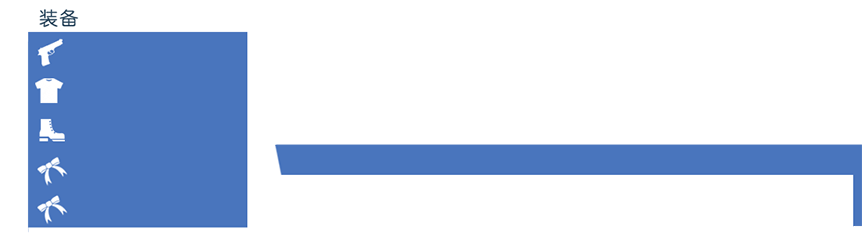
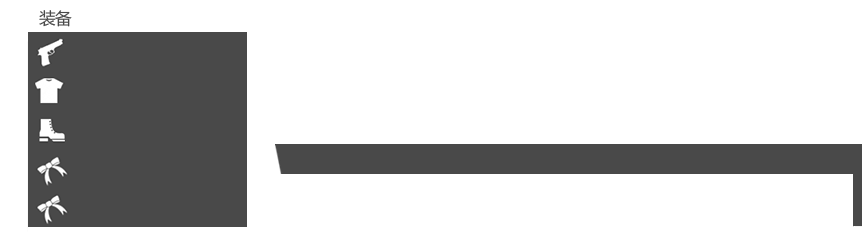
new UI design

diff --git a/src/com/rpsg/rpg/view/menu/MenuBaseView.java b/src/com/rpsg/rpg/view/menu/MenuBaseView.java
@@ -49,13 +49,18 @@ public class MenuBaseView extends View{
 		infolevel.setColor(1,1,1,0);
 		infolevel.addAction((Actions.delay(0.05f, Actions.parallel(Actions.fadeIn(0.15f),Actions.moveTo(480.5f,388.5f,0.15f)))));
 		stage.addActor(infolevel);
-		
-		Image fgshadow=Res.get(Setting.GAME_RES_IMAGE_FG+HeroController.getHeadHero().fgname+"/shadow.png");
-		fgshadow.setPosition(GameUtil.screen_width, 0);
-		fgshadow.setColor(1,1,1,0);
-		fgshadow.setScale(0.32f);
-		fgshadow.addAction(Actions.parallel(Actions.fadeIn(0.3f),Actions.moveTo(670, 0,0.1f)));
+		Image fgshadow=Res.get(Setting.GAME_RES_IMAGE_FG+HeroController.getHeadHero().fgname+"/Normal.png");
+		fgshadow.setPosition(900, 0);
+		fgshadow.setColor(0,0,0,0f);
+		fgshadow.scaleX(-0.32f).scaleY(0.32f);
+		fgshadow.addAction(Actions.parallel(Actions.moveTo(1050, 0,0.15f),Actions.color(new Color(0,0,0,.5f),0.5f)));
 		stage.addActor(fgshadow);
+		
+		Image map_bg=Res.get(Setting.GAME_RES_IMAGE_MENU_GLOBAL+"map_bg.png");
+		map_bg.setPosition(150,30);
+		map_bg.setColor(1,1,1,0);
+		map_bg.addAction(Actions.fadeIn(0.3f));
+		stage.addActor(map_bg);
 		
 		Image fg=Res.get(Setting.GAME_RES_IMAGE_FG+HeroController.getHeadHero().fgname+"/Normal.png");
 		fg.setPosition(GameUtil.screen_width, 0);
@@ -71,11 +76,7 @@ public class MenuBaseView extends View{
 		walk_bg.addAction(Actions.parallel(Actions.fadeIn(0.2f),Actions.moveTo(155,360,0.2f)));
 		stage.addActor(walk_bg);
 		
-		Image map_bg=Res.get(Setting.GAME_RES_IMAGE_MENU_GLOBAL+"map_bg.png");
-		map_bg.setPosition(150,30);
-		map_bg.setColor(1,1,1,0);
-		map_bg.addAction(Actions.fadeIn(0.3f));
-		stage.addActor(map_bg);
+	
 		int offset=0;
 		for(Hero h:HeroController.heros){
 			heros.add(HeroImage.generateImage(h.images, (int)(170+284/2-(h.getWidth())*HeroController.heros.size()+(offset+=60)), 410));
@@ -87,7 +88,7 @@ public class MenuBaseView extends View{
 		
 		try{
 			map=Res.get(Setting.GAME_RES_IMAGE_MENU_MAP+GameViews.gameview.map.getProperties().get("minimap")+".png");
-			map.setPosition(222, 46);
+			map.setPosition(218, 46);
 			map.setColor(1,1,1,0);
 			map.setSize(400, 235);
 			map.addAction(Actions.fadeIn(0.3f));
@@ -153,10 +154,10 @@ public class MenuBaseView extends View{
 		FontUtil.draw(batch, HeroController.getHeadHero().prop.get("level")+"", 40, blue, 506-FontUtil.getTextWidth(HeroController.getHeadHero().prop.get("level")+"", 40, -10)/2, 454, 1000,-10,0);
 		FontUtil.draw(batch, GameViews.global.gold+" G", 18, blue, 488+91/2-FontUtil.getTextWidth(GameViews.global.gold+" G", 18, -8), 379, 1000,-8,0);
 		FontUtil.draw(batch, "状态正常", 17, Color.WHITE, 149+285/2-FontUtil.getTextWidth("状态正常", 17, 2)/2, 385, 1000,2,0);
-		FontUtil.draw(batch, currTime, 17, blue, 558+144/2-FontUtil.getTextWidth(currTime, 17, -8)/2, 380, 1000,-8,0);
-		FontUtil.draw(batch, currDay, 16, Color.GRAY, 714, 379, 1000,-7,0);
+		FontUtil.draw(batch, currTime, 17, blue, 558+144/2-FontUtil.getTextWidth(currTime, 17, -8)/2, 378, 1000,-8,0);
+		FontUtil.draw(batch, currDay, 16, Color.GRAY, 714, 378, 1000,-7,0);
 		FontUtil.draw(batch, "LV", 14, blue, 511, 413, 1000,-7,0);
-		FontUtil.draw(batch, (String)GameViews.gameview.map.getProperties().get("name")+" ["+HeroController.getHeadHero().mapx+","+HeroController.getHeadHero().mapy+"]", 20, Color.WHITE, 210, 317, 1000,0,0);
+		FontUtil.draw(batch, (String)GameViews.gameview.map.getProperties().get("name")+" ["+HeroController.getHeadHero().mapx+","+HeroController.getHeadHero().mapy+"]", 20, Color.WHITE, 175, 317, 1000,0,0);
 		time.draw(batch);
 		for(HeroImage h:heros)
 			h.draw(batch, step==3?1:step);

diff --git a/src/com/rpsg/rpg/view/menu/ItemView.java b/src/com/rpsg/rpg/view/menu/ItemView.java
@@ -120,7 +120,7 @@ public class ItemView extends DefaultIView{
 		topbar=new Table();
 		topbar.setBackground(Res.getDrawable(Setting.GAME_RES_IMAGE_MENU_ITEM+"topbar.png"));
 		topbar.setSize(818, 42);
-		topbar.setPosition(168, 455);
+		topbar.setPosition(160, 455);
 		int tmpI=0,offsetX=135;
 		topbar.add(new TopBar("medicine", tmpI++*offsetX));
 		topbar.add(new TopBar("material", tmpI++*offsetX));
@@ -335,7 +335,7 @@ public class ItemView extends DefaultIView{
 	Image scuse,scfor;
 	com.rpsg.rpg.system.ui.List<ListItem> sellist,herolist;
 	Runnable can,can2,can3;
-	Color blue=new Color(80f/255f,111f/255f,187f/255f,1);
+	Color blue=Color.DARK_GRAY;
 	Color green=new Color(219f/255f,255f/255f,219f/255f,1);
 	Color cblue=new Color(219f/255f,238f/255f,255f/255f,1);
 	boolean drawp=false;
@@ -345,7 +345,7 @@ public class ItemView extends DefaultIView{
 		SpriteBatch sb=(SpriteBatch) stage.getBatch();
 		sb.begin();
 		FontUtil.draw(sb, item.name, 22, Color.WHITE, 455, 134, 1000);
-		FontUtil.draw(sb, item.illustration, 18, Color.BLACK, 459, 100, 490);
+		FontUtil.draw(sb, item.illustration, 18, Color.DARK_GRAY, 459, 100, 490);
 		scuse.draw(sb);
 		if(sellist.isVisible()) sellist.draw(sb, 1);
 		scfor.draw(sb);
@@ -360,8 +360,8 @@ public class ItemView extends DefaultIView{
 				render.setColor(cblue);
 				render.rect(575, 105, (float)((float)h.prop.get("mp")/(float)h.prop.get("maxmp"))*176,20);
 				render.end();
-				FontUtil.draw(sb, h.prop.get("hp")+"/"+h.prop.get("maxhp"), 20, blue, 565+176/2-FontUtil.getTextWidth(h.prop.get("hp")+"/"+h.prop.get("maxhp"), 20,-7)/2, 161, 400,-7,0);
-				FontUtil.draw(sb, h.prop.get("mp")+"/"+h.prop.get("maxmp"), 20, blue, 565+176/2-FontUtil.getTextWidth(h.prop.get("mp")+"/"+h.prop.get("maxmp"), 20,-7)/2, 124, 400,-7,0);
+				FontUtil.draw(sb, h.prop.get("hp")+"/"+h.prop.get("maxhp"), 16, blue, 572+176/2-FontUtil.getTextWidth(h.prop.get("hp")+"/"+h.prop.get("maxhp"), 20,-7)/2, 158, 400,-5,0);
+				FontUtil.draw(sb, h.prop.get("mp")+"/"+h.prop.get("maxmp"), 16, blue, 572+176/2-FontUtil.getTextWidth(h.prop.get("mp")+"/"+h.prop.get("maxmp"), 20,-7)/2, 121, 400,-5,0);
 				FontUtil.draw(sb, "正常", 18, blue, 563+176/2-FontUtil.getTextWidth("正常", 18)/2, 196, 400);
 				FontUtil.draw(sb, h.toString(), 18, Color.WHITE, 515, 227, 200);
 				if(drawp){

diff --git a/src/com/rpsg/rpg/view/menu/SpellCardView.java b/src/com/rpsg/rpg/view/menu/SpellCardView.java
@@ -261,10 +261,10 @@ public class SpellCardView extends View{
 				render.setColor(cblue);
 				render.rect(578, 224, (float)((float)h.prop.get("mp")/(float)h.prop.get("maxmp"))*189,22);
 				render.end();
-				FontUtil.draw(sb, h.prop.get("hp")+"/"+h.prop.get("maxhp"), 20, blue, 560+190/2-FontUtil.getTextWidth(h.prop.get("hp")+"/"+h.prop.get("maxhp"), 20,-7)/2, 278, 400,-7,0);
-				FontUtil.draw(sb, h.prop.get("mp")+"/"+h.prop.get("maxmp"), 20, blue, 560+190/2-FontUtil.getTextWidth(h.prop.get("mp")+"/"+h.prop.get("maxmp"), 20,-7)/2, 244, 400,-7,0);
-				FontUtil.draw(sb, "正常", 18, blue, 560+190/2-FontUtil.getTextWidth("正常", 20)/2, 208, 400);
-				FontUtil.draw(sb, "目标："+h, 18, Color.WHITE, 495, 310, 200);
+				FontUtil.draw(sb, h.prop.get("hp")+"/"+h.prop.get("maxhp"), 20, Color.DARK_GRAY, 570+190/2-FontUtil.getTextWidth(h.prop.get("hp")+"/"+h.prop.get("maxhp"), 20,-7)/2, 277, 400,-7,0);
+				FontUtil.draw(sb, h.prop.get("mp")+"/"+h.prop.get("maxmp"), 20, Color.DARK_GRAY, 570+190/2-FontUtil.getTextWidth(h.prop.get("mp")+"/"+h.prop.get("maxmp"), 20,-7)/2, 243, 400,-7,0);
+				FontUtil.draw(sb, "正常", 18, Color.DARK_GRAY, 570+190/2-FontUtil.getTextWidth("正常", 20)/2, 208, 400);
+				FontUtil.draw(sb, "目标："+h, 18, Color.WHITE, 498, 310, 200);
 				if(drawp){
 					add.draw(sb,Gdx.graphics.getDeltaTime());
 					drawp=!add.isComplete();
@@ -277,8 +277,8 @@ public class SpellCardView extends View{
 			render.setColor(cblue);
 			render.rect(578, 116, (float)((float)hero.prop.get("mp")/(float)hero.prop.get("maxmp"))*189,22);
 			render.end();
-			FontUtil.draw(sb, "技能使用者："+hero, 18, Color.WHITE, 495, 170, 200);
-			FontUtil.draw(sb, hero.prop.get("mp")+"/"+  hero.prop.get("maxmp"), 20, blue, 560+190/2-FontUtil.getTextWidth(hero.prop.get("mp")+"/"+  hero.prop.get("maxmp"), 20,-7)/2, 136, 400,-7,0);
+			FontUtil.draw(sb, "技能使用者："+hero, 18, Color.WHITE, 498, 170, 200);
+			FontUtil.draw(sb, hero.prop.get("mp")+"/"+  hero.prop.get("maxmp"), 20, Color.DARK_GRAY, 570+190/2-FontUtil.getTextWidth(hero.prop.get("mp")+"/"+  hero.prop.get("maxmp"), 20,-7)/2, 135, 400,-7,0);
 			sb.draw(hero.images[1].getRegion(),820,102);
 		}
 		

diff --git a/src/com/rpsg/rpg/system/ui/List.java b/src/com/rpsg/rpg/system/ui/List.java
@@ -202,20 +202,20 @@ public class List<T> extends Widget implements Cullable {
 					selectedDrawable.draw(batch, x+20, y + itemY - itemHeight, width-10, itemHeight);
 					font.setColor(fontColorSelected.r, fontColorSelected.g, fontColorSelected.b, fontColorSelected.a * parentAlpha);
 				}
-				FontUtil.draw(((SpriteBatch)batch), item.toString(), 20,selected?style.fontColorSelected:Color.WHITE, (int)(x + textOffsetX + 20), (int)(y + itemY - textOffsetY)+1-padTop, 500);
+				FontUtil.draw(((SpriteBatch)batch), item.toString(), 20,selected?style.fontColorSelected:Color.WHITE, (int)(x + textOffsetX + 20), (int)(y + itemY - textOffsetY)-padTop, 500);
 				int offset=0;
 				if(item instanceof Equipment){
 					if(!((Equipment)item).throwable){
-						Res.getDrawable(Setting.GAME_RES_IMAGE_MENU_EQUIP+"throwable.png").draw(batch, x+width-61+offset, y+itemY - itemHeight+6+padTop, 61, 17);
+						Res.getDrawable(Setting.GAME_RES_IMAGE_MENU_EQUIP+"throwable.png").draw(batch, x+width-61+offset, y+itemY - itemHeight+4+padTop, 61, 17);
 						offset=-70;
 					}
 					if(((Equipment)item).onlyFor!=null){
-						Res.getDrawable(Setting.GAME_RES_IMAGE_MENU_EQUIP+"only.png").draw(batch, x+width-61+offset, y+itemY - itemHeight+6+padTop, 61, 17);
+						Res.getDrawable(Setting.GAME_RES_IMAGE_MENU_EQUIP+"only.png").draw(batch, x+width-61+offset, y+itemY - itemHeight+4+padTop, 61, 17);
 						offset=-70;
 					}
 				}
 				if(item instanceof Item && ((Item)item).count!=0)
-					FontUtil.draw((SpriteBatch)batch, ""+((Item)item).count, 20, (selected?blue:Color.WHITE), (int)(x+width-61+offset),(int)(y + itemY - textOffsetY)+1-padTop, 100,-3,0);
+					FontUtil.draw((SpriteBatch)batch, ""+((Item)item).count, 20, (selected?Color.MAROON:Color.WHITE), (int)(x+width-61+offset),(int)(y + itemY - textOffsetY)-padTop, 100,-3,0);
 				if (selected) {
 					font.setColor(fontColorUnselected.r, fontColorUnselected.g, fontColorUnselected.b, fontColorUnselected.a
 						* parentAlpha);

diff --git a/src/com/rpsg/rpg/view/menu/SystemView.java b/src/com/rpsg/rpg/view/menu/SystemView.java
@@ -112,21 +112,21 @@ public class SystemView extends DefaultIView{
 		WidgetGroup group2=new WidgetGroup();
 		group2.addActor(Res.get(Setting.GAME_RES_IMAGE_MENU_SYSTEM+"graphics.png"));
 		CheckBox box=new CheckBox("", cs,22);
-		box.setPosition(190,364);
+		box.setPosition(190,276);
 		group2.addActor(box.onClick(()->{
 			Setting.persistence.antiAliasing=box.isChecked();
 		}).check(Setting.persistence.antiAliasing));
 		CheckBox box2=new CheckBox("", cs,22);
-		box2.setPosition(190,237);
+		box2.setPosition(190,149);
 		group2.addActor(box2.onClick(()->{
 			Setting.persistence.scaleAliasing=box2.isChecked();
 		}).check(Setting.persistence.scaleAliasing));
 		CheckBox box3=new CheckBox("", cs,22);
-		box3.setPosition(190,134);
+		box3.setPosition(190,44);
 		group2.addActor(box3.onClick(()->{
 			Setting.persistence.betterLight=box3.isChecked();
 		}).check(Setting.persistence.betterLight));
-		table.add(group2).prefSize(1024, 481);
+		table.add(group2).prefSize(1024, 391);
 		table.row();
 		
 		WidgetGroup group3=new WidgetGroup();

diff --git a/src/com/rpsg/rpg/core/Setting.java b/src/com/rpsg/rpg/core/Setting.java
@@ -3,8 +3,8 @@ package com.rpsg.rpg.core;
 import com.rpsg.rpg.object.base.Persistence;
 
 public class Setting {
-	public static final String GAME_VERSION="Build 155 20150222";
-	public static final String GDXRPG_VERSION="Alpha 28";
+	public static final String GAME_VERSION="Build 155 20150422";
+	public static final String GDXRPG_VERSION="Alpha 31";
 	//资源路径
 	public static final String GAME_RES_PATH="data";
 	public static final String GAME_RES_IMAGE="/images";

diff --git a/src/com/rpsg/rpg/view/menu/EquipView.java b/src/com/rpsg/rpg/view/menu/EquipView.java
@@ -218,7 +218,7 @@ public class EquipView extends View{
 		
 	}
 	
-	Color blue=new Color(80f/255f,111f/255f,187f/255f,1);
+	Color blue=Color.DARK_GRAY;
 	Color green=new Color(106f/255f,186f/255f,49f/255f,1);
 	Color red=new Color(206f/255f,88f/255f,88f/255f,1);
 	public void draw(SpriteBatch batch) {
